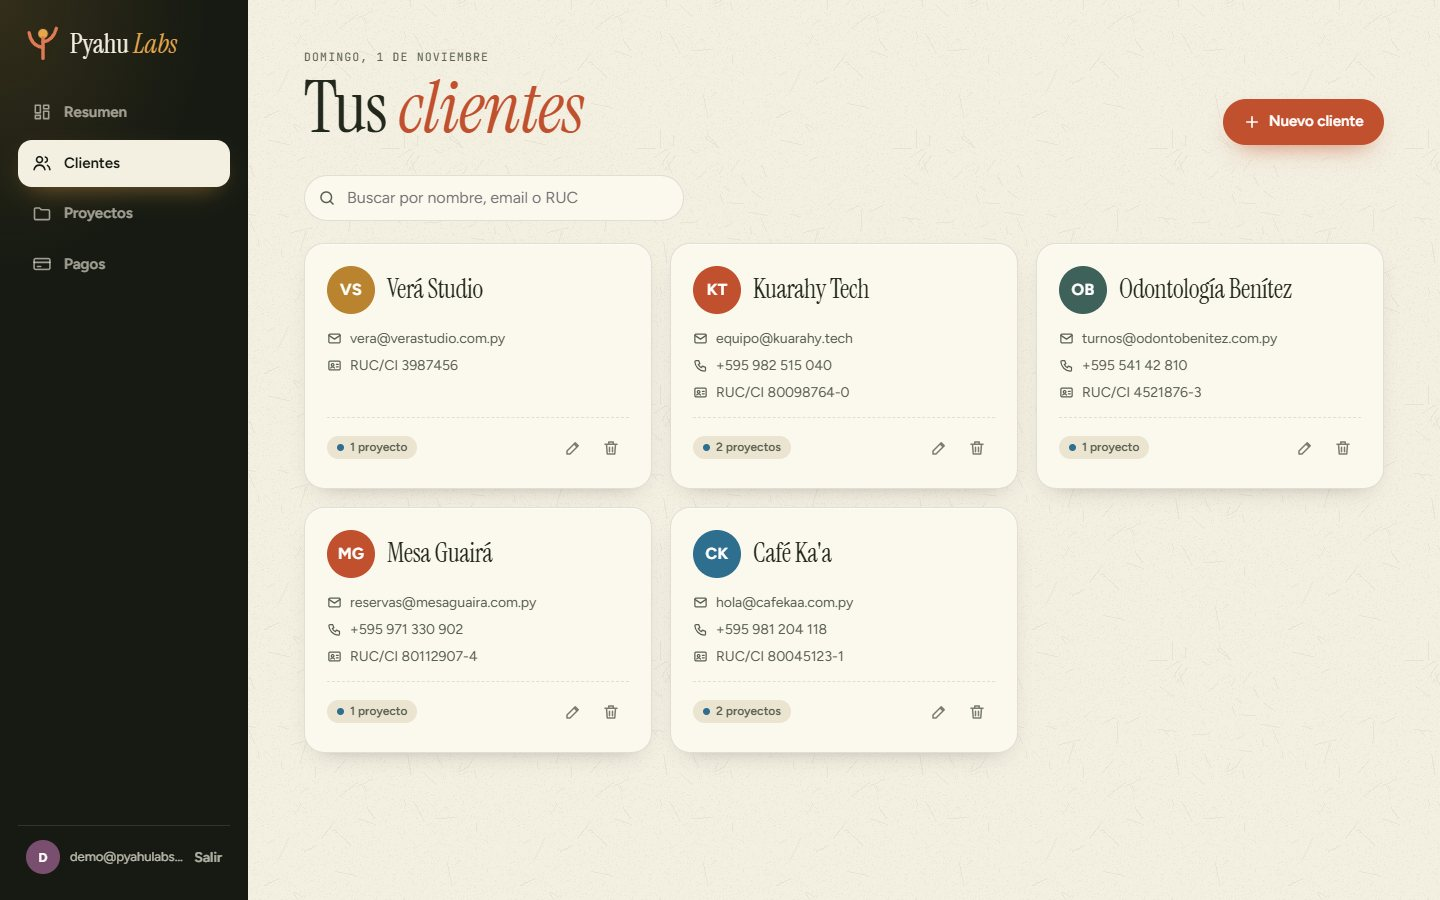
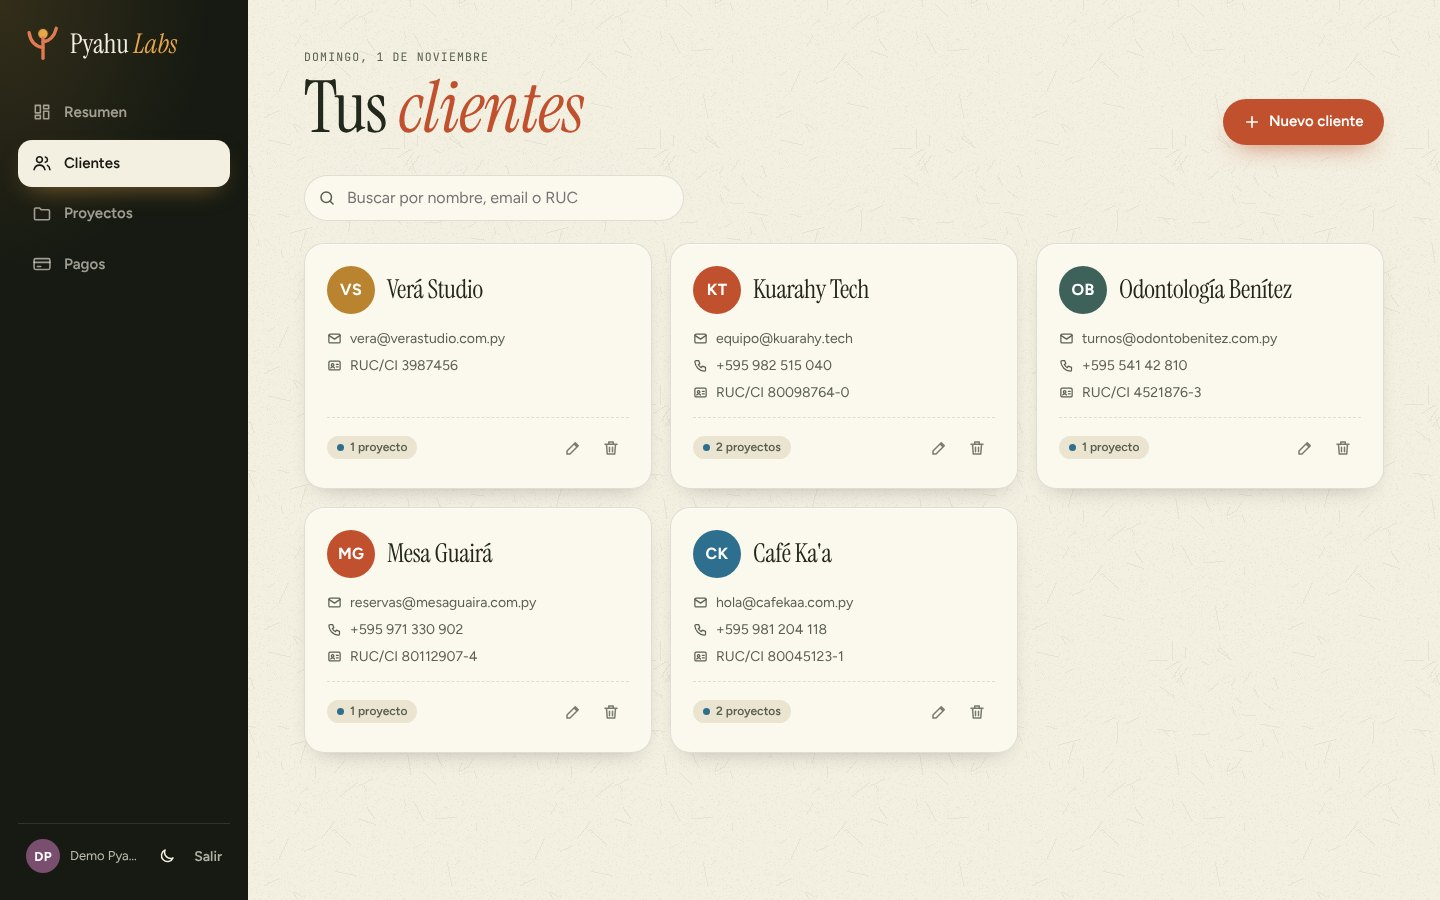
README: endpoints nuevos, migraciones, tests, celu y capturas nuevas
Claude-Session: https://claude.ai/code/session_01D6wwq4ndBdsuxuySeTTfX8

diff --git a/README.md b/README.md
@@ -6,13 +6,15 @@ API REST para gestionar los clientes, proyectos y pagos de Pyahu Labs, con un pa
 
 ## Qué hace
 
-- **Usuarios:** registro e inicio de sesión. Las contraseñas se guardan con bcrypt y el login devuelve un token JWT que dura 8 horas.
+- **Usuarios:** registro e inicio de sesión. Las contraseñas se guardan con bcrypt y el login devuelve un token JWT que dura 8 horas. El registro está **cerrado**: solo se puede crear el primer usuario (ver [Registro cerrado](#registro-cerrado)).
 - **Clientes:** CRUD completo, con RUC/CI y datos de contacto.
-- **Proyectos:** estado (presupuesto, en curso, entregado, cancelado), edición completa y saldo pendiente calculado.
-- **Pagos:** registro con transacción y bloqueo de fila, para no cobrar más que el saldo del proyecto.
-- **Resumen:** total cobrado, total pendiente y lo que queda en presupuestos.
+- **Proyectos:** estado (presupuesto, en curso, entregado, cancelado), fecha de entrega opcional, edición completa y saldo pendiente calculado.
+- **Pagos:** registrar, editar y borrar, con transacción y bloqueo de fila, para no cobrar nunca más que el saldo del proyecto.
+- **Resumen:** total cobrado, total pendiente, lo que queda en presupuestos y lo cobrado mes por mes.
+- **Seguridad:** límite de intentos de login (429 después de 8 fallidos en 15 minutos) y headers de seguridad con helmet.
 - **Validación:** cada campo se revisa antes de llegar a la base (tipos, formatos, largos y fechas reales).
-- **Panel web:** HTML, CSS y JavaScript sin librerías, con la identidad visual de Pyahu Labs y animaciones.
+- **Panel web:** HTML, CSS y JavaScript sin librerías, con la identidad visual de Pyahu Labs y animaciones. Incluye un gráfico de cobros por mes, las próximas entregas, exportar a CSV (se abre en Excel), modo oscuro y se puede instalar como app en el celu.
+- **Tests:** 16 tests automáticos con `npm test`, sobre una base aparte.
 
 ## Tecnologías
 
@@ -24,29 +26,41 @@ API REST para gestionar los clientes, proyectos y pagos de Pyahu Labs, con un pa
 | [bcryptjs](https://github.com/dcodeIO/bcrypt.js) | encriptar contraseñas |
 | [dotenv](https://github.com/motdotla/dotenv) | leer la configuración del archivo `.env` |
 | [cors](https://github.com/expressjs/cors) | permitir pedidos desde otros dominios |
+| [helmet](https://helmetjs.github.io/) | headers de seguridad (CSP, HSTS…) |
 
 ## Estructura
 
 ```
 pyahu-api/
 ├── schema.sql              # crea la base y las 4 tablas
+├── migraciones/            # cambios a la base después de schema.sql (npm run migrar)
 ├── .env.example            # plantilla de configuración
+├── render.yaml             # configuración para publicarla en Render
+├── docs/
+│   ├── PUBLICAR.md         # guía para publicarla gratis en internet
+│   └── capturas/
 ├── public/                 # panel web (lo sirve Express en /)
 │   ├── index.html
 │   ├── estilos.css
-│   └── app.js
+│   ├── app.js
+│   ├── tema.js             # aplica el modo oscuro antes de pintar
+│   ├── sw.js               # service worker: instalar como app
+│   └── manifest.webmanifest
 ├── scripts/
+│   ├── migrar.js           # npm run migrar
 │   ├── datos-demo.js       # npm run demo: usuario y datos de ejemplo
 │   └── probar-api.ps1      # prueba todos los endpoints desde PowerShell
+├── test/                   # npm test
 └── src/
     ├── server.js           # arranca el servidor
     ├── app.js              # middlewares, rutas y manejo de errores
     ├── db.js               # pool de conexiones a MySQL
     ├── middleware/
     │   ├── auth.js         # exige un token válido
+    │   ├── limiteIntentos.js  # frena a quien prueba contraseñas
     │   └── validar.js      # reglas de validación por campo
     └── routes/
-        ├── auth.js         # /auth/registro, /auth/login
+        ├── auth.js         # /auth/config, /auth/registro, /auth/login
         ├── clientes.js
         ├── proyectos.js
         ├── pagos.js
@@ -68,12 +82,17 @@ mysql -u root -p -e "source schema.sql"
 Copy-Item .env.example .env
 notepad .env
 
-# 4. (Opcional) datos de ejemplo y usuario demo
+# 4. Aplicar las migraciones (agrega lo que vino después de schema.sql)
+npm run migrar
+
+# 5. (Opcional) datos de ejemplo y usuario demo
 npm run demo
 
-# 5. Arrancar (con --watch se reinicia solo al guardar cambios)
+# 6. Arrancar (con --watch se reinicia solo al guardar cambios)
 npm run dev
 ```
+
+> **¿Ya tenías la base creada de antes?** No hace falta borrarla: `npm run migrar` aplica solo los cambios que le faltan (por ejemplo, la columna `fecha_entrega`) y anota cuáles corrió en la tabla `migraciones`. Se puede correr las veces que quieras.
 
 Abrí **http://localhost:3000** para usar el panel. Con `npm run demo` podés entrar con `demo@pyahulabs.com` / `pyahu-demo-2026` (es una cuenta solo para pruebas locales).
 
@@ -83,6 +102,30 @@ Para generar un `JWT_SECRET` largo y aleatorio:
 node -e "console.log(require('crypto').randomBytes(48).toString('hex'))"
 ```
 
+### Registro cerrado
+
+Para que nadie de afuera pueda crearse una cuenta en tu panel, **solo se puede registrar el primer usuario** (cuando la base no tiene ninguno). Después, la pestaña "Crear cuenta" desaparece y `POST /auth/registro` responde 403.
+
+Si querés dejar que cualquiera se registre (por ejemplo, para probar), poné `REGISTRO_ABIERTO=true` en el `.env` y reiniciá el servidor.
+
+### Verlo desde el celu
+
+Con el servidor andando en la PC y el celu conectado **a la misma Wi-Fi**:
+
+1. En la PC, buscá tu IP local con `ipconfig` (la línea "Dirección IPv4", algo como `192.168.0.15`).
+2. En el navegador del celu, abrí `http://192.168.0.15:3000` (con tu IP).
+3. Si no carga, Windows está bloqueando el puerto: la primera vez que corrés `npm run dev` suele preguntar si permitir Node.js en redes privadas; decí que sí.
+
+El panel se usa igual que en la PC. Lo que **no** vas a poder hacer así es instalarlo como app: los navegadores solo dejan instalar páginas servidas por **https** (o desde `localhost`). Cuando la publiques en internet ([docs/PUBLICAR.md](docs/PUBLICAR.md)) vas a tener https y ahí sí aparece "Instalar app" (Android) o "Agregar a inicio" (iPhone, desde Compartir).
+
+## Tests
+
+```powershell
+npm test
+```
+
+Corre 16 tests (validaciones, login, registro cerrado, clientes, proyectos, pagos y resumen) contra una base **aparte**, `pyahu_test`, que se borra y se vuelve a crear en cada corrida. Tus datos de la base `pyahu` no se tocan. Usa el mismo usuario de MySQL del `.env`.
+
 ## Endpoints
 
 Todas las rutas, salvo `/auth` y `/estado`, requieren el header `Authorization: Bearer <token>`.
@@ -90,28 +133,35 @@ Todas las rutas, salvo `/auth` y `/estado`, requieren el header `Authorization: 
 | Método | Ruta | Descripción |
 |---|---|---|
 | GET | `/estado` | Chequeo de que la API responde |
-| POST | `/auth/registro` | Crear usuario (`nombre`, `email`, `password` de 8 a 72 caracteres) |
-| POST | `/auth/login` | Devuelve `{ token }` |
+| GET | `/auth/config` | `{ registro_abierto }`: si se puede crear una cuenta |
+| POST | `/auth/registro` | Crear usuario (`nombre`, `email`, `password` de 8 a 72 caracteres). 403 si el registro está cerrado |
+| POST | `/auth/login` | Devuelve `{ token }`. 429 después de 8 intentos fallidos |
 | GET | `/clientes` | Listar clientes |
 | POST | `/clientes` | Crear (`nombre`; opcionales `email`, `telefono`, `ruc_ci`) |
 | GET, PUT, DELETE | `/clientes/:id` | Ver, editar o borrar. Borrar un cliente borra sus proyectos y pagos |
 | GET | `/proyectos` | Listar, con `cliente`, `pagado` y `saldo` |
-| POST | `/proyectos` | Crear (`cliente_id`, `nombre`; opcionales `descripcion`, `estado`, `monto_total`) |
-| PUT | `/proyectos/:id` | Editar todo el proyecto (`estado` y `monto_total` obligatorios) |
+| POST | `/proyectos` | Crear (`cliente_id`, `nombre`; opcionales `descripcion`, `estado`, `monto_total`, `fecha_entrega`) |
+| PUT | `/proyectos/:id` | Editar todo el proyecto (`estado` y `monto_total` obligatorios). El monto total no puede quedar por debajo de lo ya cobrado |
 | PATCH | `/proyectos/:id/estado` | Cambiar solo el estado |
 | DELETE | `/proyectos/:id` | Borrar el proyecto y sus pagos |
 | GET | `/pagos` | Listar (filtro opcional `?proyecto_id=`) |
 | POST | `/pagos` | Registrar (`proyecto_id`, `monto`, `fecha` AAAA-MM-DD; opcionales `metodo`, `nota`) |
+| PUT | `/pagos/:id` | Editar (`monto`, `fecha`, `metodo`; opcional `nota`). El proyecto no cambia y el total cobrado no puede pasar el monto del proyecto |
+| DELETE | `/pagos/:id` | Borrar un pago: el saldo del proyecto vuelve a subir |
 | GET | `/resumen` | Totales cobrado, pendiente y presupuestado, y detalle por estado |
+| GET | `/resumen/mensual` | Cobrado por mes (`?meses=` de 1 a 36, 12 por defecto). Los meses sin pagos vienen con 0 |
 
 ### Respuestas de error
 
 | Código | Cuándo |
 |---|---|
 | 400 | Datos inválidos: `{ "error": "Datos inválidos", "detalles": ["monto debe ser un número entero (sin comillas)"] }` |
+| 400 | El pago supera el saldo del proyecto, o el monto total quedaría por debajo de lo ya cobrado |
 | 401 | Falta el token, está vencido o las credenciales son incorrectas |
+| 403 | El registro está cerrado |
 | 404 | El recurso o la ruta no existen |
 | 409 | El email ya está registrado |
+| 429 | Demasiados intentos de login fallidos: esperá 15 minutos |
 | 500 | Error inesperado del servidor (se registra en la consola) |
 
 ## Probar la API
@@ -137,11 +187,25 @@ Invoke-RestMethod -Uri "$api/resumen" -Headers $auth
 
 > En PowerShell 5.1, `curl` es un alias de `Invoke-WebRequest`. Para usar el curl de verdad, escribí `curl.exe`.
 
+## Publicarla en internet
+
+En [docs/PUBLICAR.md](docs/PUBLICAR.md) hay una guía paso a paso para subirla gratis a **Render** (la API y el panel) con la base en **Aiven** (MySQL).
+
 ## Más capturas
 
-| Proyectos | Registrar un pago | Celular |
+| Proyectos | Pagos | Registrar un pago |
 |---|---|---|
-| ![Proyectos](docs/capturas/proyectos.jpg) | ![Registrar pago](docs/capturas/modal-pago.jpg) | ![Celular](docs/capturas/movil.jpg) |
+| ![Proyectos](docs/capturas/proyectos.jpg) | ![Pagos](docs/capturas/pagos.jpg) | ![Registrar pago](docs/capturas/modal-pago.jpg) |
+
+| Modo oscuro | Clientes | Acceso |
+|---|---|---|
+| ![Modo oscuro](docs/capturas/oscuro.jpg) | ![Clientes](docs/capturas/clientes.jpg) | ![Acceso](docs/capturas/acceso.jpg) |
+
+| Celular | Celular, modo oscuro |
+|---|---|
+| ![Celular](docs/capturas/movil.jpg) | ![Celular en modo oscuro](docs/capturas/movil-oscuro.jpg) |
+
+Las capturas se sacan con [Playwright](https://playwright.dev/) manejando Chrome, con los datos de `npm run demo`.
 
 ## Licencia
 
